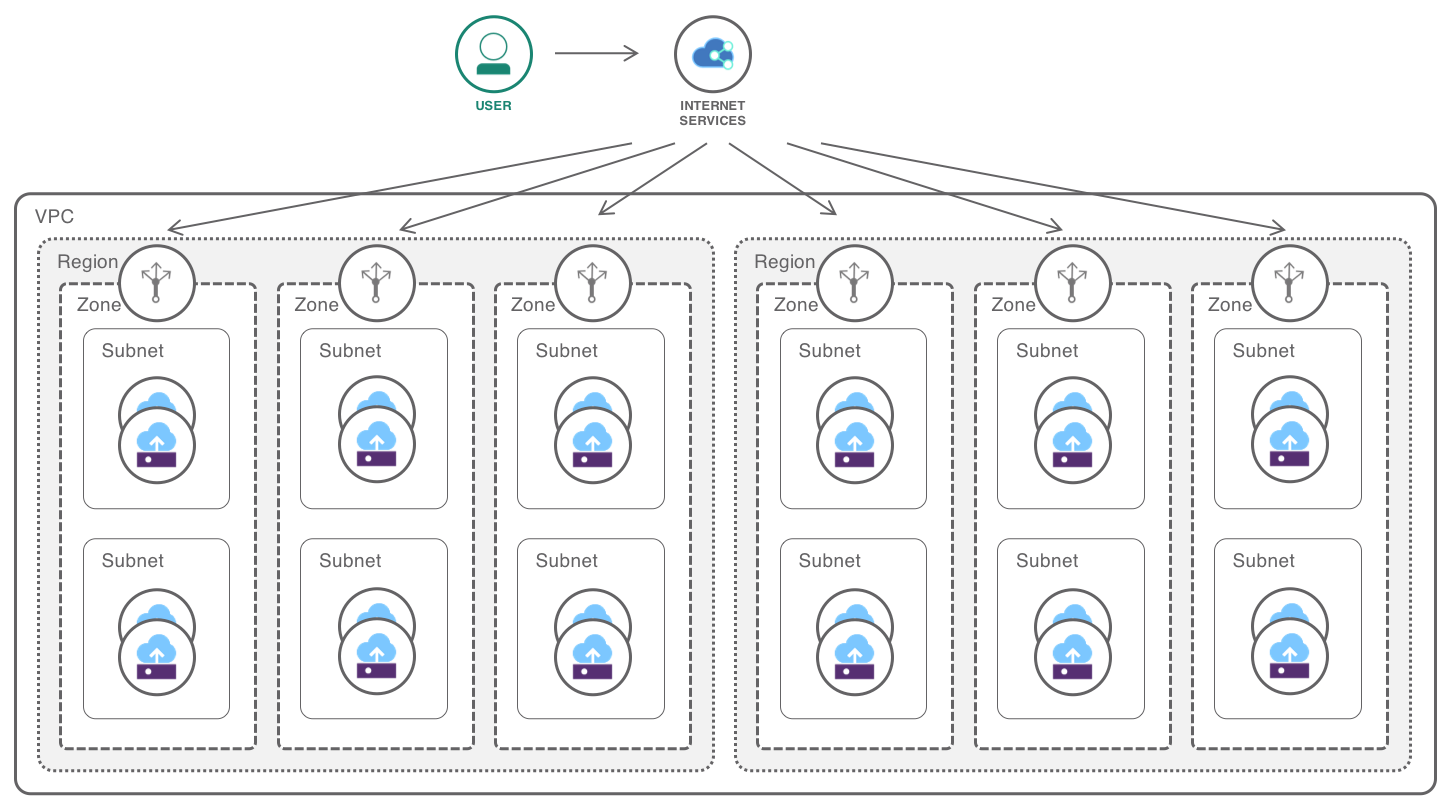
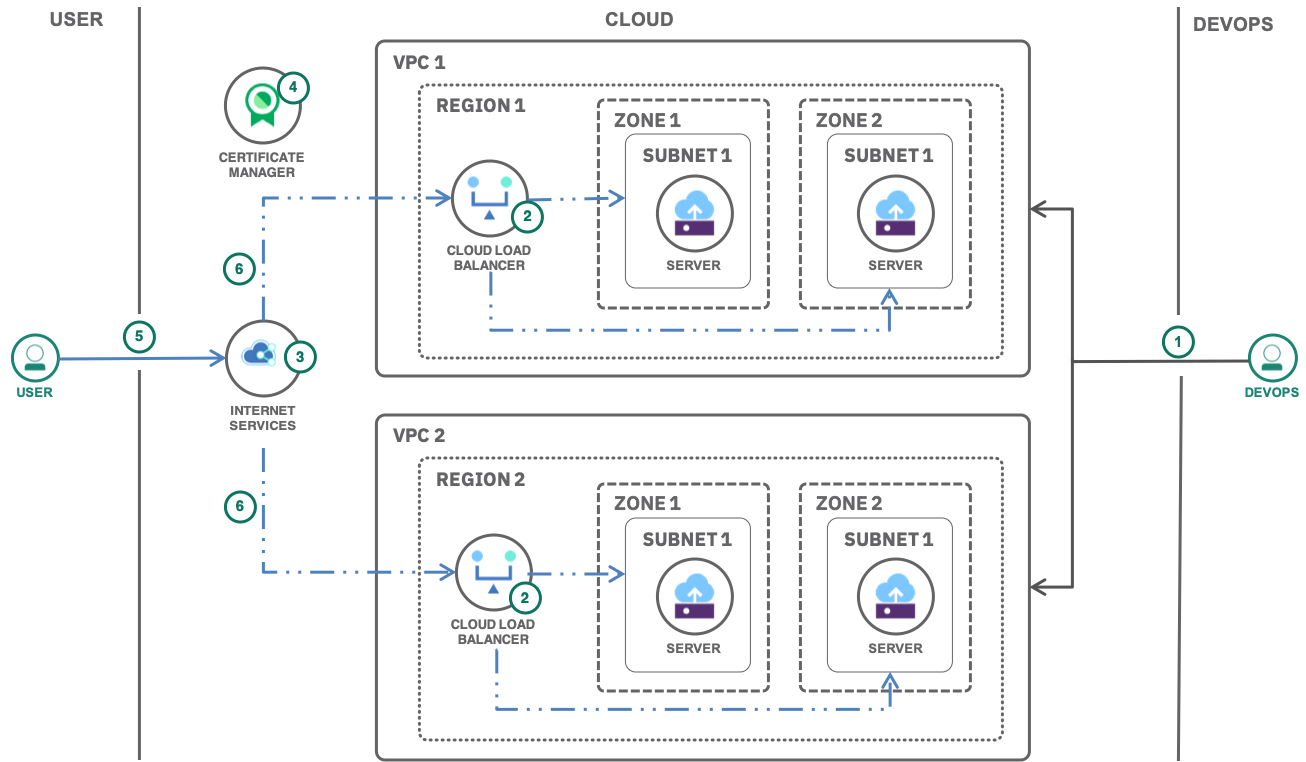
Sol 41: Added introductory sections and architecture diagram

Changed region(s): [[0.0, 0.0, 1.0, 1.0], [0.8882, 0.0, 0.9801, 0.0604], [0.0306, 0.0, 0.0919, 0.0302]]

diff --git a/vpc-globally-available.md b/vpc-globally-available.md
@@ -1,8 +1,7 @@
 ---
 copyright:
   years: 2018
-lastupdated: "2018-11-14"
-
+lastupdated: "2019-02-27"
 ---
 
 {:java: #java .ph data-hd-programlang='java'}
@@ -19,46 +18,48 @@ lastupdated: "2018-11-14"
 # VPC with globally available deployment
 {: #vpc-globally-available}
 
-VPC to isolate workloads
-Load balancer to increase resiliency within a location and globally
+This tutorial walks you through on how you can isolate workloads by creating VPCs in different IBM Cloud regions with subnets and virtual server instances(VSIs) in multiple zones of a region and how you can increase resiliency within a region and globally by provisioning and configuring load balancers with backend pools, frontend listeners and health checks.
 
 {:shortdesc}
 
 ## Objectives
 {: #objectives}
 
-* Deploy a 3-tier application to multiple locations and zones
-* Use a load balancer between zones
-* Use a global load balancer between locations
+* Understand the isolation of workloads through infrastructure objects available for virtual private clouds
+* Use a load balancer between zones in a region
+* Use a global load balancer between regions
 
 ## Services used
 {: #services}
 
 This tutorial uses the following runtimes and services:
-* [IaaS or PaaS service name](https://{DomainName}/catalog/services/ServiceName)
-* [IaaS or PaaS service name](https://{DomainName}/catalog/services/ServiceName)
-* [IaaS or PaaS service name](https://{DomainName}/catalog/services/ServiceName)
+
+- [{{site.data.keyword.vpc_full}}](https://{DomainName}/vpc/provision/vpc)
+- [{{site.data.keyword.vsi_is_full}}](https://{DomainName}/vpc/provision/vs)
+- [{{site.data.keyword.loadbalancer_full}}](https://{DomainName}/vpc/provision/loadBalancer)
+- IBM Cloud [Internet Services](https://{DomainName}/catalog/services/internet-services)
+- [{{site.data.keyword.cloudcerts_long_notm}}](https://{DomainName}/catalog/services/cloudcerts)
 
 This tutorial may incur costs. Use the [Pricing Calculator](https://{DomainName}/pricing/) to generate a cost estimate based on your projected usage.
 
 ## Architecture
 {: #architecture}
 
-intro sentence
-
-<p style="text-align: center;">
-
   ![Architecture](images/solution41-vpc-globally-available/Architecture.png)
-</p>
 
-1. The user does this
-2. Then that
+1. The admin (DevOps) provisions VSIs in subnets under two different zones in a VPC in region 1 and repeats the same in a VPC created in region 2.
+2. The admin creates a load balancer with a backend pool of servers of subnets in different zones of region 1 and a frontend listener. Repeats the same in region 2.
+3. The admin provisions cloud internet services service with an associated custom domain and creates a global load balancer pointing to the load balancers created in two different VPCs.
+4. The admin enables HTTPS encryption by adding the domain SSL certificate to the Certificate manager service.
+5. The internet user makes an HTTP/HTTPS request and the global load balancer handles the request.
+6. The request is routed to the load balancers and fullfiled by the available server instance through the respective load balancer.
 
 ## Before you begin
 {: #prereqs}
 
-* [Install Git](https://git-scm.com/)
-* [IBM Cloud Developer Tools](https://{DomainName}/docs/cli/index.html#overview) - Script to install docker, kubectl, helm, ibmcloud cli and required plug-ins
+- Check for user permissions. Be sure that your user account has sufficient permissions to create and manage VPC resources. For a list of required permissions, see [Granting permissions needed for VPC users](/docs/infrastructure/vpc/vpc-user-permissions.html).
+
+- You need an SSH key to connect to the virtual servers. If you don't have an SSH key, see the [instructions for creating a key](/docs/infrastructure/vpc/getting-started.html#prerequisites).
 
 ## Create VPC
 
